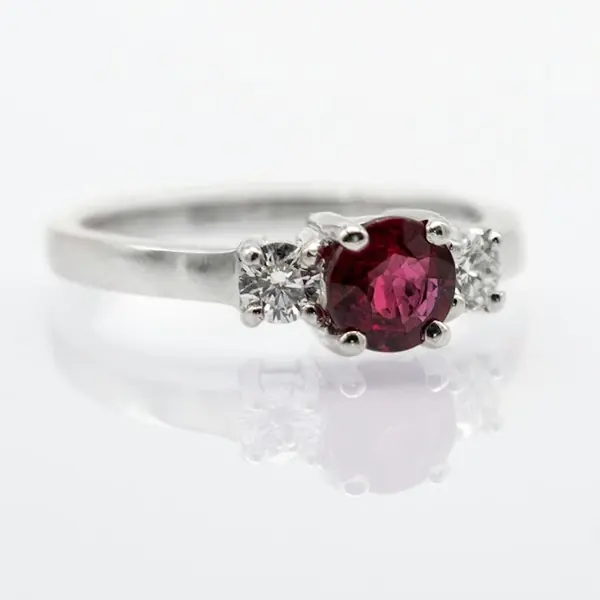
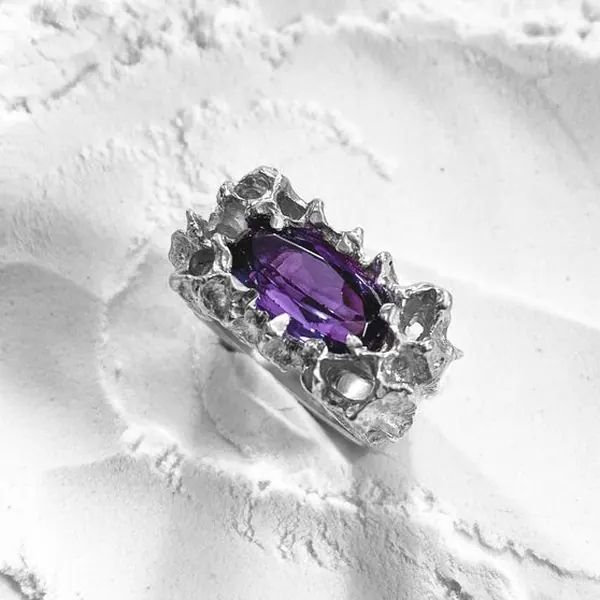
Panel de KPIs, analitica guardada en localStorage y correcciones

diff --git a/app.js b/app.js
@@ -87,10 +87,28 @@ function estrellas(valor) {
   return "★".repeat(llenas) + "☆".repeat(5 - llenas);
 }
 
-/* 4. ANALÍTICA SIMULADA (KPIs del laboratorio) ------------- */
-// Eventos: inicio_registro, registro_completado, busqueda_exitosa, clic_agregar_carrito
+/* 4. ANALÍTICA (KPIs del laboratorio) ---------------------- */
+// Eventos: inicio_registro, registro_completado, busqueda_exitosa, busqueda_sin_resultados,
+//          clic_agregar_carrito, vista_detalle, vista_carrito, pedido_confirmado
+// Cada evento se muestra en consola y se guarda en localStorage ("viola_eventos").
+const CLAVE_EVENTOS = "viola_eventos";
+const MAX_EVENTOS = 1000;   // tope para que el almacenamiento no crezca sin límite
+
+function leerEventos() {
+  try {
+    const guardados = JSON.parse(localStorage.getItem(CLAVE_EVENTOS) || "[]");
+    return Array.isArray(guardados) ? guardados : [];
+  } catch (e) { return []; }
+}
+
 function registrarEvento(nombre, datos = {}) {
-  console.log(`[analitica] ${nombre}`, { ...datos, hora: new Date().toISOString() });
+  const hora = new Date().toISOString();
+  console.log(`[analitica] ${nombre}`, { ...datos, hora });
+  try {
+    const eventos = leerEventos();
+    eventos.push({ nombre, datos, hora });
+    localStorage.setItem(CLAVE_EVENTOS, JSON.stringify(eventos.slice(-MAX_EVENTOS)));
+  } catch (e) { /* sin localStorage: queda solo el console.log */ }
 }
 
 /* 5. AVISOS Y CONTADOR ------------------------------------- */
@@ -743,6 +761,7 @@ function enviarRegistro(e) {
     estado.carrito = []; estado.regalo = false;
     guardarEstado();
     registrarEvento("registro_completado", { pedido: estado.ultimoPedido.numero });
+    registrarEvento("pedido_confirmado", { pedido: estado.ultimoPedido.numero, total: t.total });
     actualizarContador();
     location.hash = "#confirmacion";
   }, 1200);
@@ -775,8 +794,103 @@ function vistaConfirmacion() {
     </section>`;
 }
 
+/* --- PANEL DE KPIs (#kpis) --- */
+const KPIS = [
+  { titulo: "Tasa de registro", num: "registro_completado", den: ["inicio_registro"],
+    formula: "registro_completado ÷ inicio_registro × 100", meta: 35 },
+  { titulo: "Éxito de búsqueda", num: "busqueda_exitosa", den: ["busqueda_exitosa", "busqueda_sin_resultados"],
+    formula: "busqueda_exitosa ÷ (busqueda_exitosa + busqueda_sin_resultados) × 100", meta: 80 },
+  { titulo: "CTR del botón Agregar", num: "clic_agregar_carrito", den: ["vista_detalle"],
+    formula: "clic_agregar_carrito ÷ vista_detalle × 100", meta: 5 },
+  { titulo: "Conversión carrito → pedido", num: "pedido_confirmado", den: ["vista_carrito"],
+    formula: "pedido_confirmado ÷ vista_carrito × 100", meta: 25 }
+];
+
+const ETIQUETA_KPI = { cumple: "✓ Cumple", debajo: "▼ Por debajo", "sin-datos": "– Sin datos" };
+const porcentaje = v => v.toFixed(1).replace(".", ",") + " %";
+
+// Calcula cada KPI con los eventos guardados. Si el denominador es 0, queda "sin datos".
+function calcularKpis() {
+  const cuenta = {};
+  leerEventos().forEach(e => { cuenta[e.nombre] = (cuenta[e.nombre] || 0) + 1; });
+  return KPIS.map(k => {
+    const numerador = cuenta[k.num] || 0;
+    const denominador = k.den.reduce((s, n) => s + (cuenta[n] || 0), 0);
+    const valor = denominador > 0 ? numerador / denominador * 100 : null;
+    const estadoKpi = valor === null ? "sin-datos" : valor >= k.meta ? "cumple" : "debajo";
+    return { ...k, numerador, denominador, valor, estado: estadoKpi };
+  });
+}
+
+function tarjetaKpi(k) {
+  const avance = k.valor === null ? 0 : Math.min(100, k.valor / k.meta * 100);
+  return `
+    <article class="kpi kpi--${k.estado}">
+      <div class="kpi__cab">
+        <h3>${k.titulo}</h3>
+        <span class="kpi__estado kpi__estado--${k.estado}">${ETIQUETA_KPI[k.estado]}</span>
+      </div>
+      <p class="kpi__valor">${k.valor === null ? "—" : porcentaje(k.valor)}</p>
+      <p class="kpi__meta">Meta ≥ ${k.meta} %</p>
+      <div class="kpi__barra" role="progressbar" aria-label="Avance hacia la meta: ${k.titulo}"
+           aria-valuemin="0" aria-valuemax="100" aria-valuenow="${Math.round(avance)}"
+           aria-valuetext="${Math.round(avance)} % de la meta"><span style="width:${avance}%"></span></div>
+      <p class="kpi__formula"><code>${k.formula}</code></p>
+      <p class="kpi__conteo">${k.numerador} de ${k.denominador} ${k.denominador === 1 ? "evento" : "eventos"}</p>
+    </article>`;
+}
+
+function detalleEvento(datos) {
+  const pares = Object.entries(datos || {});
+  if (!pares.length) return "—";
+  return pares.map(([clave, valor]) =>
+    `${esc(clave)}: ${esc(clave === "total" && typeof valor === "number" ? dinero(valor) : valor)}`).join(" · ");
+}
+
+function vistaKpis() {
+  const eventos = leerEventos();
+  const ultimos = eventos.slice(-20).reverse();
+  const filas = ultimos.map(e => `
+    <tr>
+      <td>${esc(new Date(e.hora).toLocaleString("es-EC", { dateStyle: "short", timeStyle: "medium" }))}</td>
+      <td><code>${esc(e.nombre)}</code></td>
+      <td>${detalleEvento(e.datos)}</td>
+    </tr>`).join("");
+
+  return `
+    <section aria-labelledby="t-kpis">
+      <span class="eyebrow">Laboratorio IHM</span>
+      <h1 id="t-kpis" tabindex="-1">Panel de KPIs</h1>
+      <p class="subtitulo">Calculados con los eventos guardados en este navegador (${eventos.length} en total).</p>
+      <div class="kpis">${calcularKpis().map(tarjetaKpi).join("")}</div>
+    </section>
+
+    <section class="seccion" aria-labelledby="t-eventos">
+      <div class="seccion__cabecera">
+        <h2 id="t-eventos">Últimos 20 eventos</h2>
+        <button type="button" class="btn btn--secundario" data-kpis-pedir>Reiniciar datos de prueba</button>
+      </div>
+      <div id="confirmar-reinicio" class="confirmar" role="group" aria-labelledby="t-confirmar" hidden>
+        <p id="t-confirmar"><strong>¿Borrar todos los eventos guardados?</strong> Los KPIs volverán a cero y no se puede deshacer.</p>
+        <div class="confirmar__acciones">
+          <button type="button" class="btn btn--primario" data-kpis-borrar>Sí, borrar</button>
+          <button type="button" class="btn btn--secundario" data-kpis-cancelar>Cancelar</button>
+        </div>
+      </div>
+      ${ultimos.length ? `
+      <div class="tabla-wrap" role="region" aria-label="Tabla de los últimos eventos" tabindex="0">
+        <table class="tabla">
+          <caption class="sr-only">Últimos 20 eventos de analítica, del más reciente al más antiguo</caption>
+          <thead><tr><th scope="col">Hora</th><th scope="col">Evento</th><th scope="col">Detalle</th></tr></thead>
+          <tbody>${filas}</tbody>
+        </table>
+      </div>` : `
+      <div class="vacio"><p>Aún no hay eventos. Navega por la tienda (busca, abre un producto, agrega al carrito) y vuelve aquí.</p></div>`}
+    </section>`;
+}
+
 /* 10. ROUTER POR HASH -------------------------------------- */
-// Rutas: #inicio, #catalogo[?cat=..&mat=..], #detalle-ID, #carrito, #registro, #confirmacion
+// Rutas: #inicio, #catalogo[?cat=..&mat=..], #detalle-ID, #carrito, #registro, #confirmacion, #kpis
 function parsearHash() {
   const crudo = location.hash.replace(/^#/, "") || "inicio";
   const [camino, consulta = ""] = crudo.split("?");
@@ -790,7 +904,8 @@ const VISTAS = {
   detalle:      id => vistaDetalle(id),
   carrito:      () => vistaCarrito(),
   registro:     () => vistaRegistro(),
-  confirmacion: () => vistaConfirmacion()
+  confirmacion: () => vistaConfirmacion(),
+  kpis:         () => vistaKpis()
 };
 
 // Acciones que se enlazan después de pintar cada vista
@@ -805,7 +920,9 @@ function navegar() {
   const main = $("#contenido");
   main.innerHTML = vista(param, consulta);
   if (ALENTRAR[ruta]) ALENTRAR[ruta]();
-  document.title = "Viola Joyería · " + (ruta.charAt(0).toUpperCase() + ruta.slice(1));
+  if (ruta === "detalle" && productoPorId(param)) registrarEvento("vista_detalle", { producto: productoPorId(param).nombre });
+  if (ruta === "carrito" && estado.carrito.length) registrarEvento("vista_carrito", { productos: estado.carrito.reduce((s, l) => s + l.cantidad, 0) });
+  document.title = "Viola Joyería · " + (ruta === "kpis" ? "Panel de KPIs" : ruta.charAt(0).toUpperCase() + ruta.slice(1));
   window.scrollTo(0, 0);
 
   // Marca la opción activa de la barra inferior
@@ -868,6 +985,16 @@ function iniciar() {
 
   document.addEventListener("click", e => {
     const t = e.target;
+    // Panel de KPIs: reiniciar datos con confirmación en la página
+    if (t.closest("[data-kpis-pedir]")) { $("#confirmar-reinicio").hidden = false; $("[data-kpis-cancelar]").focus(); return; }
+    if (t.closest("[data-kpis-cancelar]")) { $("#confirmar-reinicio").hidden = true; $("[data-kpis-pedir]").focus(); return; }
+    if (t.closest("[data-kpis-borrar]")) {
+      try { localStorage.removeItem(CLAVE_EVENTOS); } catch (e) { /* sin localStorage */ }
+      navegar();
+      mostrarAviso("<span>Datos de prueba reiniciados</span>", 2500);
+      $("#t-kpis").focus();
+      return;
+    }
     // Cuenta: cerrar sesión
     if (t.closest("[data-cerrar-sesion]")) {
       estado.usuario = null; guardarEstado(); navegar();

diff --git a/styles.css b/styles.css
@@ -861,3 +861,53 @@ body {
 .hero__marco, .detalle__imagen { box-shadow: 0 16px 40px rgba(0, 0, 0, .45); }
 .tarjeta:hover .tarjeta__imagen { box-shadow: 0 10px 26px rgba(121, 13, 151, .4); }
 .img-joya .foto { background: #1d1124; }
+
+/* ==========================================================
+   PANEL DE KPIs y avisos
+   ========================================================== */
+
+/* Aviso "Agregaste…": fondo oscuro, texto crema y enlace dorado (contraste alto) */
+.aviso { background: #2A1A2E; color: #FFE3B3; border: 1px solid rgba(255, 227, 179, .22); border-left: 6px solid var(--orquidea); }
+.aviso a { color: #FFC57C; text-decoration: underline; }
+.aviso :focus-visible { outline-color: #FFC57C; }
+
+/* Tarjetas de KPI */
+.kpis { display: grid; gap: 14px; grid-template-columns: 1fr; }
+.kpi { display: flex; flex-direction: column; gap: 8px; padding: 18px; border-radius: 20px; border: 1px solid var(--hairline);
+  background: linear-gradient(160deg, rgba(255, 227, 179, .06), rgba(121, 13, 151, .2)); }
+.kpi__cab { display: flex; justify-content: space-between; align-items: flex-start; gap: 10px; }
+.kpi h3 { font-size: 1rem; margin: 0; }
+.kpi__estado { flex: none; padding: 3px 10px; border-radius: 999px; border: 1px solid; font-size: .75rem; font-weight: 600; white-space: nowrap; }
+.kpi__estado--cumple { color: #9BE3B0; background: rgba(155, 227, 176, .14); border-color: rgba(155, 227, 176, .55); }
+.kpi__estado--debajo { color: #FFC57C; background: rgba(255, 197, 124, .14); border-color: rgba(255, 197, 124, .55); }
+.kpi__estado--sin-datos { color: #FFE3B3; background: rgba(255, 227, 179, .08); border-color: rgba(255, 227, 179, .35); }
+.kpi__valor { margin: 0; font-family: var(--fuente-titulo); font-size: 2.25rem; font-weight: 600; line-height: 1.1; }
+.kpi__meta { margin: 0; font-size: .8125rem; }
+.kpi__barra { height: 8px; border-radius: 999px; background: rgba(255, 227, 179, .16); overflow: hidden; }
+.kpi__barra span { display: block; height: 100%; border-radius: 999px; background: #FFC57C; }
+.kpi--cumple .kpi__barra span { background: #9BE3B0; }
+.kpi__formula { margin: 4px 0 0; }
+.kpi__formula code { font-size: .75rem; color: #FFE3B3; opacity: .85; font-family: ui-monospace, "Cascadia Mono", Consolas, monospace; overflow-wrap: anywhere; }
+.kpi__conteo { margin: 0; font-size: .75rem; opacity: .8; }
+
+/* Confirmación en la propia página (sin confirm()) */
+.confirmar { display: flex; flex-wrap: wrap; gap: 12px; align-items: center; justify-content: space-between;
+  margin-bottom: 14px; padding: 14px 18px; border-radius: 16px; border: 1px solid rgba(255, 197, 124, .55); background: rgba(255, 197, 124, .08); }
+.confirmar[hidden] { display: none; }
+.confirmar p { margin: 0; }
+.confirmar__acciones { display: flex; flex-wrap: wrap; gap: 10px; }
+
+/* Tabla de eventos */
+.tabla-wrap { overflow-x: auto; border: 1px solid var(--hairline); border-radius: 16px; }
+.tabla { width: 100%; min-width: 520px; border-collapse: collapse; font-size: .8125rem; }
+.tabla th, .tabla td { padding: 10px 14px; text-align: left; border-bottom: 1px solid var(--hairline); vertical-align: top; }
+.tabla th { font-size: .6875rem; letter-spacing: .1em; text-transform: uppercase; color: #FFC57C; background: rgba(255, 227, 179, .05); }
+.tabla tbody tr:last-child td { border-bottom: 0; }
+.tabla td:first-child { white-space: nowrap; }
+.tabla code { font-family: ui-monospace, "Cascadia Mono", Consolas, monospace; color: #FFE3B3; }
+.seccion__cabecera { flex-wrap: wrap; align-items: center; }
+
+@media (min-width: 640px) { .kpis { grid-template-columns: 1fr 1fr; } }
+@media (min-width: 1100px) { .kpis { grid-template-columns: repeat(4, 1fr); } }
+.kpi__valor { font-variant-numeric: lining-nums; }
+.kpi__cab { min-height: 2.9em; }

diff --git a/index.html b/index.html
@@ -50,7 +50,7 @@
     <div class="linea-marca" aria-hidden="true" style="max-width:240px;margin:0 auto"></div>
     <div class="pie__cols">
       <div><h3>Viola Joyería</h3><p>Joyas en oro 18k, plata 925 y acero quirúrgico. Guayaquil, Ecuador.</p></div>
-      <div><h3>Compra</h3><ul><li><a href="#catalogo">Catálogo</a></li><li><a href="#carrito">Carrito</a></li><li><a href="#registro">Mi cuenta</a></li></ul></div>
+      <div><h3>Compra</h3><ul><li><a href="#catalogo">Catálogo</a></li><li><a href="#carrito">Carrito</a></li><li><a href="#registro">Mi cuenta</a></li><li><a href="#kpis">KPIs</a></li></ul></div>
       <div><h3>Garantías</h3><ul><li>Autenticidad certificada</li><li>Cambios en 15 días</li><li>Pago contra entrega</li></ul></div>
     </div>
     <p>© 2026 Karla Isabel Tutillo Cedeño</p>
